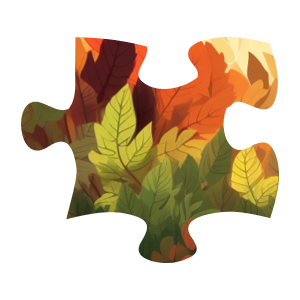
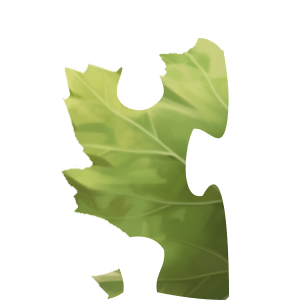
New assets

diff --git a/lib/views/puzzle_game.dart b/lib/views/puzzle_game.dart
@@ -30,7 +30,7 @@ class _PuzzlesState extends State<Puzzles> {
   void initState() {
     super.initState();
     puzzleImageFile =
-        _getImageFileFromAssets('images/puzzle pattern 2- alpha channel.png');
+        _getImageFileFromAssets('images/puzzle pattern 3- alpha channel.png');
     WidgetsBinding.instance.addPostFrameCallback((_) {
       Future.delayed(Duration(seconds: 2), () => _updateImageSize());
     });
@@ -93,7 +93,7 @@ class _PuzzlesState extends State<Puzzles> {
                 iconSize: 200,
                 onPressed: () {}),
             Image.asset(
-              'assets/images/puzzle pattern 2- alpha channel.png',
+              'assets/images/puzzle pattern 3- alpha channel.png',
               key: _imageKey,
             )
           ]),
@@ -108,6 +108,7 @@ class _PuzzlesState extends State<Puzzles> {
                   _calculateImageDimension(snapshot.data)
                       .then((size) => originalPhotoSize = size);
                   return Stack(
+                    fit: StackFit.loose,
                     children: [
                       for (int i = 0; i < widget.puzzleSyllables.length; i++)
                         GestureDetectorWidget(
@@ -190,7 +191,10 @@ class GestureDetectorWidgetState extends State<GestureDetectorWidget> {
                 child: IconButton(
               iconSize: 300 * widget.resizeFactor!,
               icon: Image.asset(widget.assetLocation),
-              onPressed: () {},
+              onPressed: () {
+                print(
+                    '${widget.resizedImageSize!.height} ${widget.photoSize!.height}');
+              },
             )),
             Center(
               child: TextButton(
